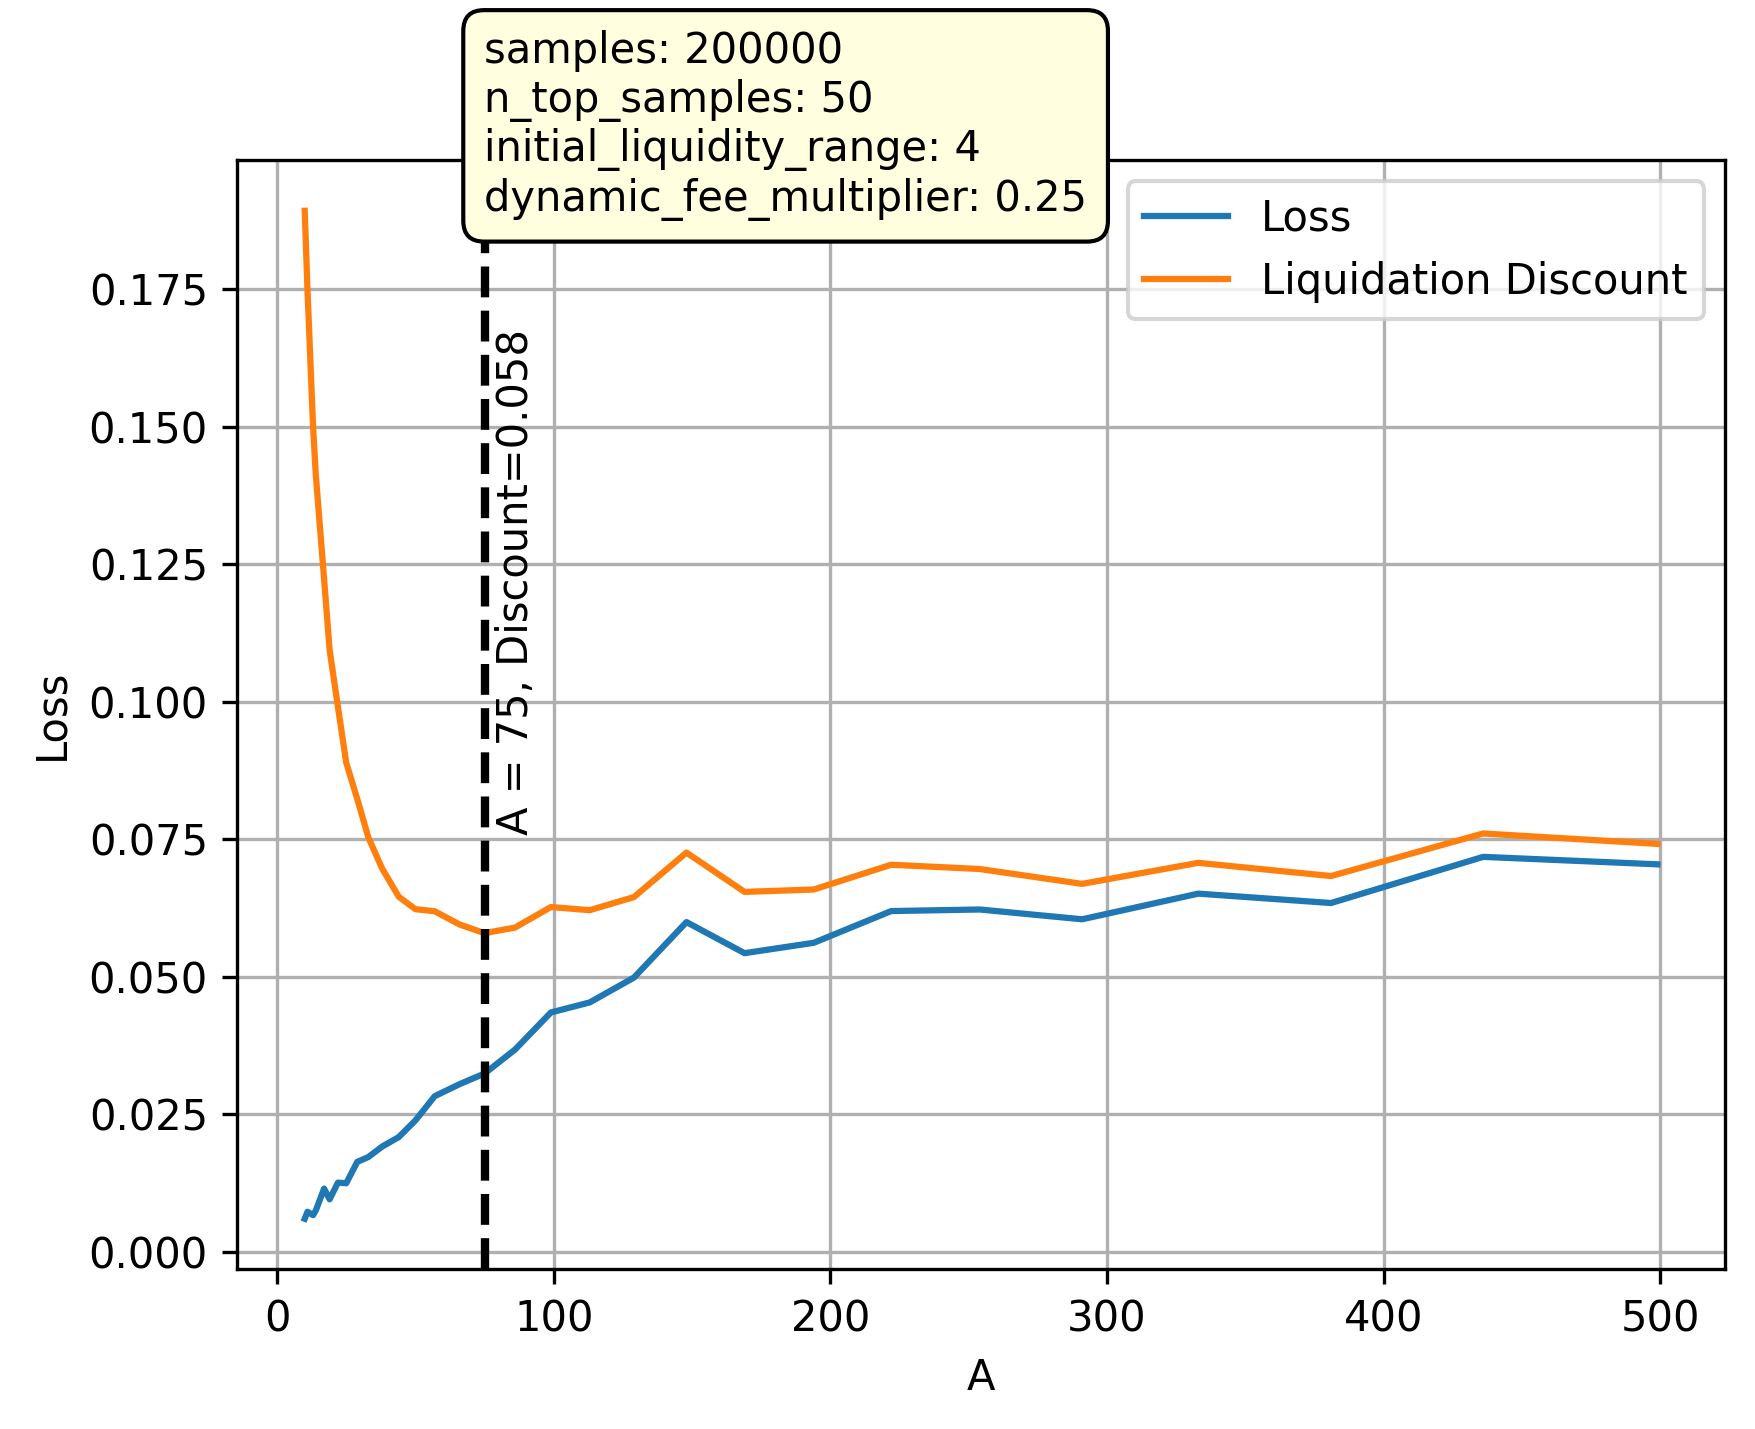
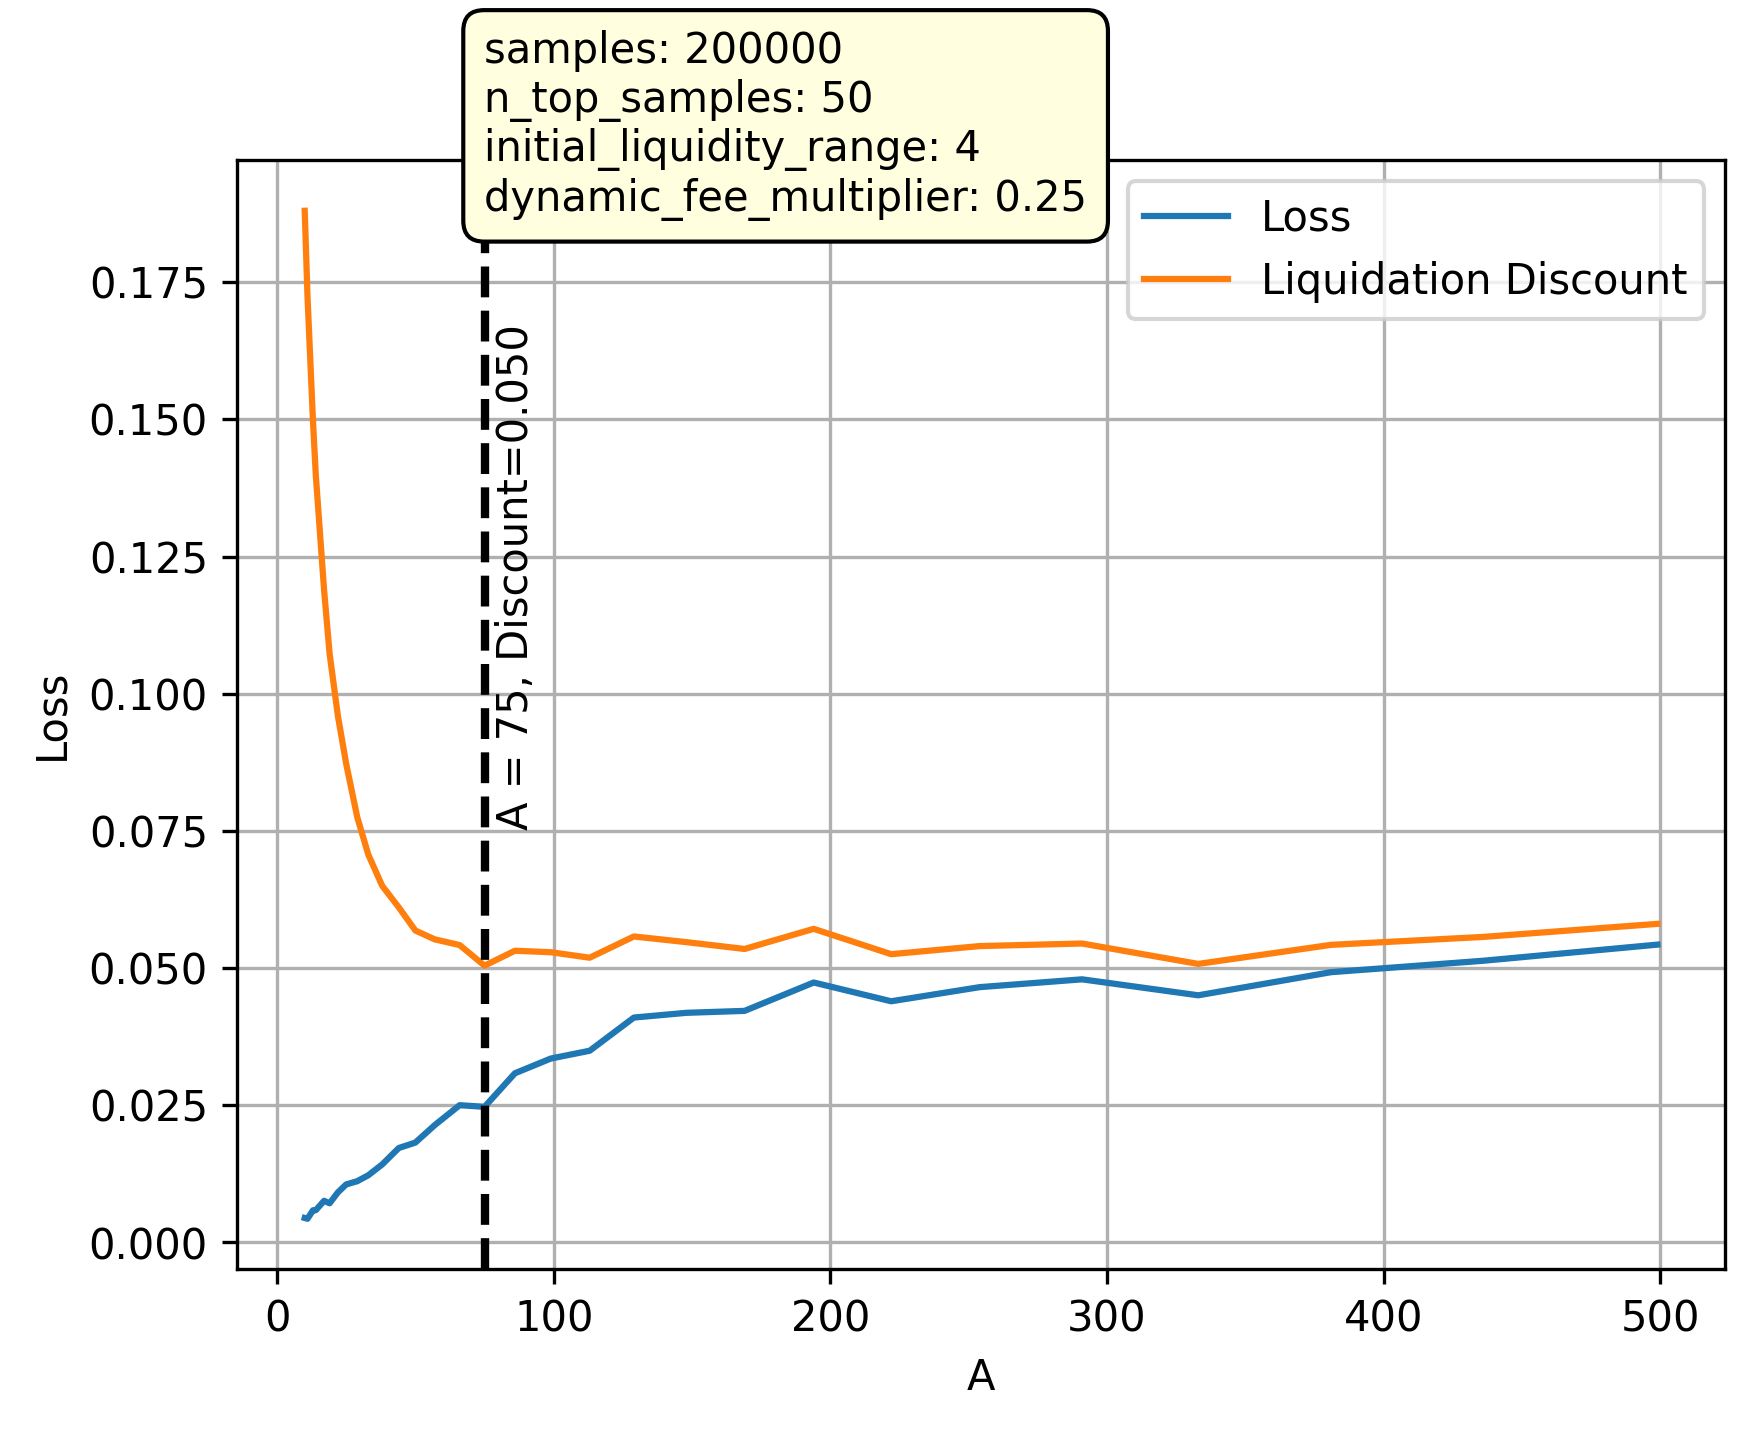
fix dynamic fee in sumulator

diff --git a/simulator/amm/lending_amm.py b/simulator/amm/lending_amm.py
@@ -3,10 +3,19 @@ from math import floor, log, sqrt
 
 
 class LendingAMM:
+    PREV_P_O_DELAY = 2 * 60  # seconds
+    MAX_P_O_CHANGE = 1.25  # matches on-chain MAX_P_O_CHG / 1e18
+    MIN_PRICE_RATIO = 1 / MAX_P_O_CHANGE
+
     def __init__(self, p_base: float, A: int, fee: float, dynamic_fee_multiplier: float | None = None):
         self.p_base = p_base
         self.p_oracle = p_base
         self.prev_p_oracle = p_base
+        self.raw_p_oracle = p_base
+        self.old_p_oracle = p_base
+        self.old_dfee = 0.0
+        self.prev_p_oracle_time: float | None = None
+        self.current_timestamp: float | None = None
         self.A = A
         self.dynamic_fee_multiplier = dynamic_fee_multiplier if dynamic_fee_multiplier is not None else 0.25
         self.bands_x = defaultdict(float)
@@ -26,39 +35,98 @@ class LendingAMM:
     #  - collect fees separately for the protocol (wohoo), compensate traded bands
     #  - reduced_input *= (1 - fee), calc output for reduced_input, split fee * input across bands touched
 
-    def set_p_oracle(self, p):
+    def set_p_oracle(self, p, timestamp: float | None = None):
+        price, _ = self._limit_price_oracle(p, timestamp, write=True)
         self.prev_p_oracle = self.p_oracle
-        self.p_oracle = p
+        self.p_oracle = price
 
-    def dynamic_fee(self, n_band):
-        """
-        Dynamic fee equal to a quarter (by default) of difference between current price and the price of price oracle
-        """
-        p_oracle = self.p_oracle
-        p_up = self.p_up(n_band)
+    def dynamic_fee(self, n_band, timestamp: float | None = None):
+        """Replicates on-chain logic: max(base fee, oracle-memory fee, distance fee)."""
+        p_oracle, oracle_memory_fee = self._price_oracle_view(timestamp)
+        fee_with_memory = max(self.fee, oracle_memory_fee)
+        distance_fee = self._distance_fee(p_oracle, n_band)
+        return max(fee_with_memory, distance_fee)
 
-        if p_oracle > p_up:
-            dynamic_fee = ((p_oracle - p_up) / p_oracle) * self.dynamic_fee_multiplier
-        else:
-            dynamic_fee = ((p_up - p_oracle) / p_up) * self.dynamic_fee_multiplier
+    def _normalize_timestamp(self, timestamp: float | None) -> float | None:
+        if timestamp is None:
+            return self.current_timestamp if self.current_timestamp is not None else self.prev_p_oracle_time
+        self.current_timestamp = timestamp
+        return timestamp
 
-        return max(self.fee, dynamic_fee)
+    def _memory_dt(self, timestamp: float | None) -> float:
+        if self.prev_p_oracle_time is None or timestamp is None:
+            return self.PREV_P_O_DELAY
+        elapsed = max(timestamp - self.prev_p_oracle_time, 0)
+        return self.PREV_P_O_DELAY - min(self.PREV_P_O_DELAY, elapsed)
 
-    def p_down(self, n_band):
+    def _limit_price_oracle(self, price: float, timestamp: float | None, write: bool) -> tuple[float, float]:
+        timestamp = self._normalize_timestamp(timestamp)
+        old_price = self.old_p_oracle
+        old_dfee = self.old_dfee
+        dt = self._memory_dt(timestamp)
+        limited_price = price
+        ratio = 0.0
+
+        if dt > 0 and old_price > 0:
+            price_ratio = min(old_price, price) / max(old_price, price)
+            if price > old_price and price_ratio < self.MIN_PRICE_RATIO:
+                price_ratio = self.MIN_PRICE_RATIO
+                limited_price = old_price * self.MAX_P_O_CHANGE
+            elif price < old_price and price_ratio < self.MIN_PRICE_RATIO:
+                price_ratio = self.MIN_PRICE_RATIO
+                limited_price = old_price / self.MAX_P_O_CHANGE
+
+            ratio = ((1.0 + old_dfee) - price_ratio**3) * (dt / self.PREV_P_O_DELAY)
+            ratio = min(max(ratio, 0.0), 1.0 - 1e-18)
+
+        if write:
+            self.raw_p_oracle = price
+            self.old_p_oracle = limited_price
+            self.old_dfee = ratio
+            if timestamp is not None:
+                self.prev_p_oracle_time = timestamp
+
+        return limited_price, ratio
+
+    def _price_oracle_view(self, timestamp: float | None) -> tuple[float, float]:
+        price = self.raw_p_oracle if self.raw_p_oracle is not None else self.p_oracle
+        return self._limit_price_oracle(price, timestamp, write=False)
+
+    def _distance_fee(self, p_oracle: float, n_band: int) -> float:
+        p_o_up = self.p_top(n_band)
+        if p_o_up <= 0:
+            return 0.0
+
+        # Matches on-chain: p_c_d = p_o**3 / p_o_up**2, p_c_u = p_c_d * (A / (A-1))**2
+        p_c_d = (p_oracle**3) / (p_o_up**2)
+        band_ratio = self.A / (self.A - 1)
+        p_c_u = p_c_d * band_ratio**2
+
+        if p_oracle < p_c_d and p_c_d > 0:
+            return (p_c_d - p_oracle) / p_c_d * self.dynamic_fee_multiplier
+        if p_oracle > p_c_u and p_oracle > 0:
+            return (p_oracle - p_c_u) / p_oracle * self.dynamic_fee_multiplier
+        return 0.0
+
+    def p_down(self, n_band, p_oracle: float | None = None):
         """
         Lower price for the band at the current p_oracle
         """
+        if p_oracle is None:
+            p_oracle = self.p_oracle
         k = (self.A - 1) / self.A  # equal to (p_down / p_up)
         p_base = self.p_base * k**n_band
-        return self.p_oracle**3 / p_base**2
+        return p_oracle**3 / p_base**2
 
-    def p_up(self, n_band):
+    def p_up(self, n_band, p_oracle: float | None = None):
         """
         Upper price for the band at the current p_oracle
         """
+        if p_oracle is None:
+            p_oracle = self.p_oracle
         k = (self.A - 1) / self.A  # equal to (p_down / p_up)
         p_base = self.p_base * k ** (n_band + 1)
-        return self.p_oracle**3 / p_base**2
+        return p_oracle**3 / p_base**2
 
     def p_top(self, n):
         k = (self.A - 1) / self.A  # equal to (p_down / p_up)

diff --git a/simulator/amm/simulator.py b/simulator/amm/simulator.py
@@ -142,7 +142,7 @@ class Simulator:
 
         # <----------------- Calculation ----------------->
         for (t, open, high, low, close, vol), oracle_price in zip(prices_for_simulation, oracle_prices_for_simulation):
-            amm.set_p_oracle(oracle_price)
+            amm.set_p_oracle(oracle_price, timestamp=t)
 
             high = find_target_price(high * (1 - self.external_fee), is_up=True)
             low = find_target_price(low * (1 + self.external_fee), is_up=False)
